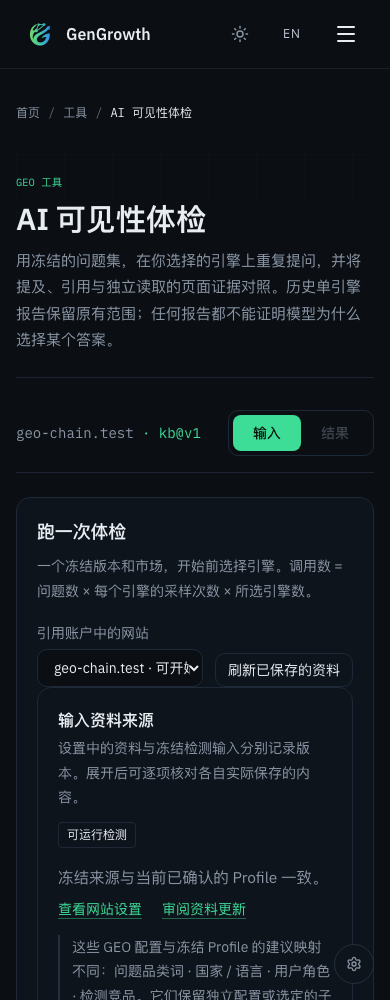
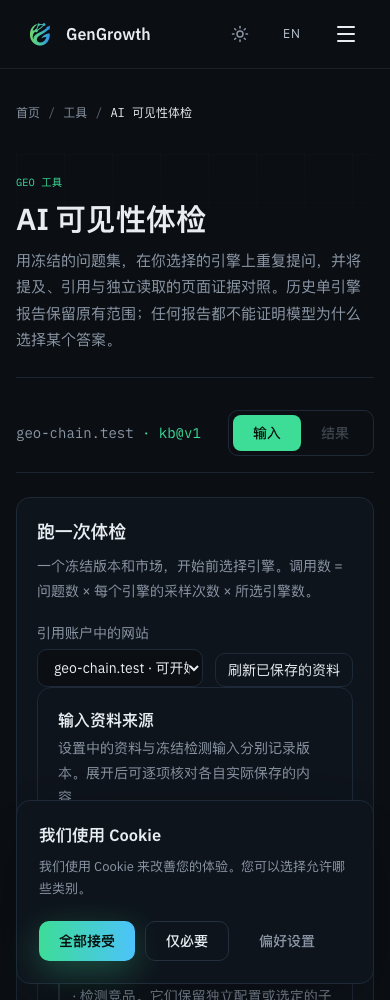
docs(marketing): record final AI Visibility production gates

Changed region(s): [[0.0923, 0.806, 0.8615, 1.0], [0.8923, 0.93, 0.9231, 0.992], [0.8308, 0.837, 0.8923, 0.868]]

diff --git a/apps/marketing/docs/reviews/2026-08-31-ai-visibility-release/acceptance.md b/apps/marketing/docs/reviews/2026-08-31-ai-visibility-release/acceptance.md
@@ -1,60 +1,48 @@
 # AI Visibility release-candidate acceptance
 
-This record applies to verified code commit `d872265f5c952552e1214587daaaf63e5afe6dfc` on foundation `59330b10e4fb5ca059a928cf002738e773032afe` ([PR #270](https://github.com/phananhson733-oss/nevermore/pull/270)), integrated with main `977f0bc4f32bf8de453e059d3ddf444a7297bad0`. Every gate below was rerun after the dependency patch except the local backup/restore drill, whose migration bytes are unchanged. This supersedes earlier local-only and pre-foundation evidence for release decisions. The final evidence-only commit changes no application, test, dependency or migration bytes; their Git tree hashes are retained in `browser-evidence.json`.
+This record applies to tested head `e17d8e5583b73e95eba4cb45dea79ba61ac9eea2`, integrated with main `ca9ad4ddf6b5d2a48ead302d51e187c8a308f264` after PRs #273-#277. Foundation #270 is already merged and deployed. A later evidence-only commit may update this record without changing source, E2E, migration or dependency bytes; the exact tested Git tree hashes are retained in `browser-evidence.json`.
 
-## Fresh gates
+## Final gates
 
 | Gate | Result | Scope |
 | --- | --- | --- |
-| Marketing unit | 417 files / 6964 tests PASS | Entire apps/marketing unit collection, no ignored blog failure |
-| Marketing lint | PASS | Full package eslint, no rule disabled |
-| Marketing typecheck | PASS | Full package tsc |
-| Marketing production build | PASS | Build `3e-pG-1Nyo8Ul7b4Qx0sJ`;301 routes/pages; no provider credentials |
-| Marketing Workflow | 2 tests PASS | Actual workflow integration harness |
-| GEO SQL | 6 files /67 tests PASS | Fresh isolated loopback PostgreSQL17; not production |
-| Local backup/restore | PASS |10 Marketing tables retained identical row digests, routine definitions identical |
-| Browser | 35/35 PASS | Same candidate build; AI Visibility, Profile update, GEO chain, current GEO Brief and Page Citability |
-| Dependency audits |PASS, no known vulnerabilities|Full and production-only audit; frozen install passes|
-| Spec verification |PASS +55/55 self-tests|No weakened checks or baseline exclusions|
-| Docs consistency |14/14 PASS|Repository gate |
-| Implementation/authority inventory |PASS|80operations,84tables,53migrations,12rules unchanged |
-| Generated contracts |PASS|OpenAPI-generated types match |
-| Deploy configuration |PASS|Marketing/Product/Worker boundaries unchanged |
-| Secrets and diff hygiene |PASS|No credentials/conflict markers/whitespace errors |
+| Marketing unit | 436 files / 7,529 tests PASS | Full `apps/marketing` unit collection, run without concurrent build contention |
+| Marketing lint | PASS | Full package ESLint, no rule disabled |
+| Marketing typecheck | PASS | Full package TypeScript |
+| Marketing production build | PASS | Build `SxKb-3Jkpi2civFvx02Xo`; 302 routes/pages; provider credentials cleared |
+| GEO SQL | 6 files / 67 tests PASS | Dedicated disposable loopback PostgreSQL17 database |
+| Browser | 48 PASS / 2 intentional manual-evidence skips / 0 failures | Seven suites: AI Visibility, Profile update, GEO chain, GEO Brief artifact/quality/repair and Page Citability |
+| Dependency audits | PASS, no known vulnerabilities | Full and production-only audit |
+| Spec verification | PASS + 55/55 self-tests | No exclusions or weakened checks |
+| Generated contracts / deploy config | PASS | OpenAPI types and deployment topology unchanged |
+| Secret scan | PASS + 75/75 redaction tests | No credentials committed |
 
-The browser layer uses real Next pages, handlers, statistics and exporters with explicit offline account/store/provider seams. It does not prove real production login, database catalogue state or paid provider behavior. The documented Visibility-only Flight-auth fixture hydration warning is test-only; no new app error is exempted.
+The two browser skips require explicitly selected real capture and paid-provider receipt files. The suite never starts those calls itself. All other browser tests use the actual production build with explicit offline account/store/provider seams; they do not prove a paid production provider result.
 
-## Release-review fixes beyond the earlier local candidate
+## Latest-main integration and review
 
-The independent release review found a downstream defect after the earlier32-feature source fix: the site collector and persisted report validator still accepted only30. Both now use the canonical `WEBSITE_PROFILE_LIST_MAX_ITEMS`. Actual31/32 enrichment, wire, JSON import/export and store/read regressions first failed, then passed.33 remains invalid in the source contract.
+The normal merge commit preserves current main's Page Citability, GEO Brief repair/quality and Content Brief/Draft changes while retaining AI Visibility history, exact inputs, Profile-copy review, measurement selection and exporters. Eleven content conflicts were resolved as an explicit union; automatic GEO handler/harness merges were retained. Independent release review then found and closed two proper-name category blockers at both freeze and Visibility input boundaries. Unicode brand names remain valid proper names; genuinely non-English category wording remains blocked before paid work.
 
-Package-wide pre-existing failures were repaired without lowering guards:
[1 lines of base64/hex data omitted]
 
-- English blog count85 is tied to five published articles already in main; Chinese8, legacy URLs, draft exclusion and ordering remain checked.
-- Three unused bindings/helpers were removed.
-- The URL control-character check uses an equivalent code-point loop; NUL, unit separator and DEL must return400 without a provider invocation.
-- Source UI tests import the deployed locale catalogue instead of local files outside the Marketing workspace.
+## Production database evidence
 
-The integration preserves all current main locale leaves and both shared-harness branches: current real BriefLoad plus Visibility context/history. It does not replace newer Page Citability or GEO Brief UI with an older checkout.
+Chrome and CLI access were verified against `nevermore / pxgzmoypkyyutpcmqexa`, not an old project. Before migration, the live catalog and an isolated PostgreSQL17 baseline matched: 10 tables, 75 constraints, 35 indexes, 12 immutable triggers and 17 present routines plus the expected absent validator.
+
+A restricted logical roles/public-schema/public-data backup was retained outside the repository. It restored successfully into an isolated PostgreSQL17 cluster. All 10 table row counts/digests and routine definitions matched the pre-migration baseline. Applying the exact migration to that restored production data produced the expected after-catalog while every table row digest stayed unchanged.
+
+The production migration then ran in one explicit transaction with `lock_timeout=5s`, `statement_timeout=120s` and a final `COMMIT`. Post-migration checks matched the reviewed after-baseline:
+
+- 10 tables, 75 constraints, 35 indexes and 12 immutable triggers.
+- Constraints MD5 `63d64686bab72a6d67faa7d726ddc487`; indexes/triggers unchanged.
+- Validator plus save/freeze/context-freeze definitions match exact expected MD5s.
+- All four are single-overload, empty-search-path, service-only `SECURITY DEFINER` functions; anon/authenticated execute remains denied.
+- All 10 production table counts and row digests still match the restored backup.
+
+This proves schema and data preservation at the migration boundary. It does not claim a paid-provider production canary. Production application deployment and authenticated page verification remain separate release steps.
 
 ## Browser acceptance
 
-Thirty-five cases cover:
+The current build covers EN/ZH, light/dark, 390/1440 input/result layouts, all account websites, exact source/frozen question disclosure, four headline metrics, truthful partial/insufficient states, stable owned history URLs, V1 summary-only history, safe answer/reference expansion and real downloaded JSON/Markdown bytes.
 
-- EN/ZH, light/dark,390/1440 input/result layouts, all websites, exact source and frozen question disclosure.
-- Four headline metrics, question/answer denominators, partial/insufficient states, omitted excerpt honesty and safe reference links.
-- Stable owned history URLs, refresh/reopen, V1 summary-only, unknown/foreign response paths and no implicit new run.
-- Actual downloaded JSON/Markdown bytes and compatible local-file comparison.
-- Complete Profilev2 review/copy, explicitly selected measurement updates, save, freezev2, exact selected run; oldv1 bytes and hashes remain unchanged.
-- Existing A/B/C/D Brief/Draft/T2/third-party flows, gap counters and collapsed independently read-page table.
-- Current main's GEO Brief and Page Citability visual/behavior regressions.
-
-Four representative images are retained in `screenshots/` and hashed in `browser-evidence.json`. Their data is synthetic local evidence, not an AstrologyWiki production run.
-
-## Known root baseline and production prerequisites
-
-At977f0bc4, verify:spec reported reviewed package.json/README lock drift and audit reported GHSA-2v37-7h3g-55p8 in nanoid3.3.17. Both are handled by the separate foundation dependency, not hidden inside this feature diff. The feature remains Marketing-only relative to that foundation; foundation integration has its own Product build-scheduling boundary. Full/prod audit and verify:spec now pass on the combined code commit above without exclusions. Earlier baseline failures are retained as diagnosis, not presented as passes.
-
-Production Supabase project/catalog reads were denied by the current connector permissions. No production backup, migration, restore or provider canary is claimed. See `preflight.md` and `ai-visibility-migration-preflight.sql`.
-
-**The code-quality gates above are complete. Production activation is blocked until an authorized operator verifies access/backups, applies the required migration and approves the exact Marketing deployment. Keep the PR unmerged until that condition is satisfied.**
+It also covers explicit complete Profile review/copy/measurement/save/freeze, immutable old snapshots, current GEO Brief quality/repair behavior, A/B/C/D/unattributed gaps and Page Citability's measured-versus-AI separation. Four representative images are retained in `screenshots/`; their data is synthetic acceptance evidence, not a production customer or paid-provider run.

diff --git a/apps/marketing/docs/reviews/2026-08-31-ai-visibility-release/preflight.md b/apps/marketing/docs/reviews/2026-08-31-ai-visibility-release/preflight.md
@@ -1,51 +1,39 @@
-# AI Visibility release preflight
+# AI Visibility production preflight and execution record
 
-Scope: Marketing `apps/marketing/**` only, based on main `977f0bc4f32bf8de453e059d3ddf444a7297bad0`. The user's current authorization is commit/push and production-readiness preparation. This record is not authorization to migrate production, merge into an automatically deployed main branch, or deploy Product.
+Scope: Marketing `apps/marketing/**`, tested head `e17d8e5583b73e95eba4cb45dea79ba61ac9eea2`, integrated with main `ca9ad4ddf6b5d2a48ead302d51e187c8a308f264`. The owner explicitly authorized production entry. Foundation #270 is already merged/deployed; Product automatic custom-domain assignment remains disabled.
 
-## Changes and integration
+## Candidate boundary
 
-- Artifact-aligned four-metric result hierarchy, input/result tabs, exact source disclosures, scoped gap counts, expandable answer/reference evidence and JSON/Markdown exports.
-- All account websites and full confirmed Profile copies with explicit update/measurement review, immutable freezes and English-placeholder admission.
-- Private stable report history/reopening, including honest summary-only V1 history, no provider/quota work on reads.
-- Current main's Page Citability and GEO Brief changes retained. The shared browser harness keeps both the current real Brief load handler and new Visibility/KB readers.
-- Release review found and fixed the remaining 31–32-feature downstream limit: Profile, frozen context, site evidence collection and report validation now share the existing source limit of32. Added actual enrichment→wire→export/import→record/read tests. Source33 remains rejected.
-- Marketing gate repairs: the five already-main English blog additions are explicitly asserted alongside exact85/8 counts; removed three unused bindings/helpers; URL control-character rejection keeps the same behavior and adds NUL/unit-separator/DEL regressions.
-- Source component tests use the shipped EN/ZH catalog, not local review files outside the deployable workspace.
+- Artifact-aligned input/result hierarchy, exact source disclosures, history and exports.
+- All account websites plus explicit current-to-frozen complete Profile review and immutable snapshots.
+- Current main's GEO Brief repair/quality, Page Citability and Content tools remain intact.
+- The final feature diff is Marketing-only; do not deploy `apps/web` or a worker.
 
-## Production gate — migration before activation
+## Database execution
 
-Required migration: `supabase/migrations/20260831100603_geo_kb_profile_copy.sql`.
[1 lines of base64/hex data omitted]
 
-It extends only GEO payload capacity to384KiB and adds exact complete-Profile source/CAS checks. The authoritative Website Profile stays128KiB; old payloads, hashes, snapshots and question sets are not rewritten.
+Completed against production project `pxgzmoypkyyutpcmqexa`:
 
-Do not merge/promote this release until an authorized operator completes:
+1. Correct account/project verified in Chrome and CLI; stale projects were not used.
+2. Metadata-only preflight proved the existing GEO v2/context chain was already installed and matched the local before-baseline.
+3. Restricted roles/public-schema/public-data dumps were stored outside Git at mode 0600 under a mode 0700 directory. Only paths, sizes and hashes are reported; backup contents are not printed or committed.
+4. The backup restored into an isolated PostgreSQL17 cluster. The exact migration was rehearsed there; 10 table row digests remained unchanged and the after-catalog matched exactly.
+5. Production execution used one explicit transaction, `lock_timeout=5s`, `statement_timeout=120s`, `ON_ERROR_STOP` semantics through the SQL Editor and final `COMMIT`; the UI returned success.
+6. Postflight catalog/routine/ACL checks and all 10 production row digests matched the expected after-state and restored backup.
 
-1. Verify the actual project and run `ai-visibility-migration-preflight.sql` against the target. Do not assume local keys or a different connector account prove access.
-2. Create a current backup of the affected Marketing tables and relevant function/ACL definitions in the approved secure backup location, outside the repository. Restore and validate it in a disposable environment.
-3. Apply the migration atomically with bounded locks/timeouts. For an approved direct connection, use the existing migration runner's transaction support or `psql --single-transaction --set ON_ERROR_STOP=1`, with local lock_timeout5s and statement_timeout120s. Never execute an unwrapped multi-statement script in a way that can leave half the RPC replacement installed.
-4. Repeat catalog, ACL, source-copy and immutable-history smoke checks. Validate that anon/authenticated cannot call privileged functions; only the service role has the intended RPC/read permissions.
-5. Only then merge/promote the exact reviewed Marketing commit. Do not deploy apps/web or a worker.
-6. Verify the real account website/old-history read paths. A paid sampling canary requires its own explicit budget; do not describe the local fixture run as a real provider canary.
+The migration enlarges only GEO payload limits from 128KiB to 384KiB and installs complete-Profile source/CAS validation. Authoritative Website Profile limits stay 128KiB. Existing payloads, snapshots, hashes, questions and visibility runs were not rewritten.
 
-The 0006 rollout note describes an older code-first incident. It is historical context, not the order for this migration.
+## Rollback boundary
 
-## Rollback
+Do not shrink payload constraints, delete complete-copy fields, recalculate historical hashes or mutate frozen questions. After complete-copy records are written, an older parser may not read them. Prefer a forward fix or a compatibility rollback that retains the new parser, hash checks and source bounds. The additive database state can remain while Marketing aliases are rolled back to the prior application deployment.
 
-Before any new-format copy is written, retaining the old application may be possible, but keep the additive database changes and verify reads; do not shrink payload constraints or delete snapshots.
+## Remaining activation checks
 
-After complete-copy snapshots exist, a blind rollback to an older parser can make those records unreadable. Prefer a forward fix or a compatibility rollback that retains the complete-copy parser, hash checks and updated source bounds. Never strip fields, recalculate historical hashes, mutate frozen questions, or run a destructive down-migration to make an old UI load.
+- Merge only the exact reviewed Marketing head after GitHub/Vercel checks pass.
+- Wait for `gengrowth.ai` and `www.gengrowth.ai` to be READY on the merge SHA; inspect build/runtime error logs.
+- Verify authenticated account website, current Profile-copy, old history and export reads without starting provider work.
+- Independently prove `app.gengrowth.ai` retained its prior production alias/deployment.
+- A real paid Visibility sample requires explicit budget; no fixture result may be described as a paid canary.
 
-## Current external-state evidence
-
-Read-only Vercel inspection at release preparation:
-
-- Marketing `gengrowth.ai`: `dpl_BqVgLUzWF7k9B6DNW1SGZKaLkH6m`, READY at `977f0bc4`.
-- Product `app.gengrowth.ai`: `dpl_DzMBdEeuhxshcsqSt8UVttk75cc7`, READY at `de82f380bf2d531907bfad825dc4b755deced053`.
-- These are pre-release identities, not proof that this change is deployed.
-- Supabase connector project/catalog reads for the configured project were denied by its current permissions. Production migration/catalog/backup/restore remain unverified, and no production SQL was executed.
-
-## Verification boundaries
-
-Fresh release-candidate gates are recorded in `acceptance.md`. GitHub Actions is workflow_dispatch-only; do not claim automatic Actions checks. Vercel build/TypeScript does not replace local unit, SQL, lint or browser acceptance.
-
-The977f0bc4 baseline has stale package.json/README lock entries and an audited nanoid3.3.17 dependency issue (GHSA-2v37-7h3g-55p8). A separate foundation PR patches the existing v3 override to3.3.18 and refreshes only the reviewed root lock entries. This feature PR depends on [foundation PR #270](https://github.com/phananhson733-oss/nevermore/pull/270) at59330b10; its own diff stays in apps/marketing. Root maintenance affects Vercel's Product build scheduling, so neither PR may be merged as an implicit Marketing-only production deployment. The combined candidate passed full/prod audit and verify:spec without exclusions; the exact code commit and fresh acceptance are in acceptance.md. Production access and activation prerequisites remain open.
+GitHub Actions is workflow-dispatch-only. Local gates, Vercel builds, production migration and canonical-domain checks remain separate evidence tiers.
